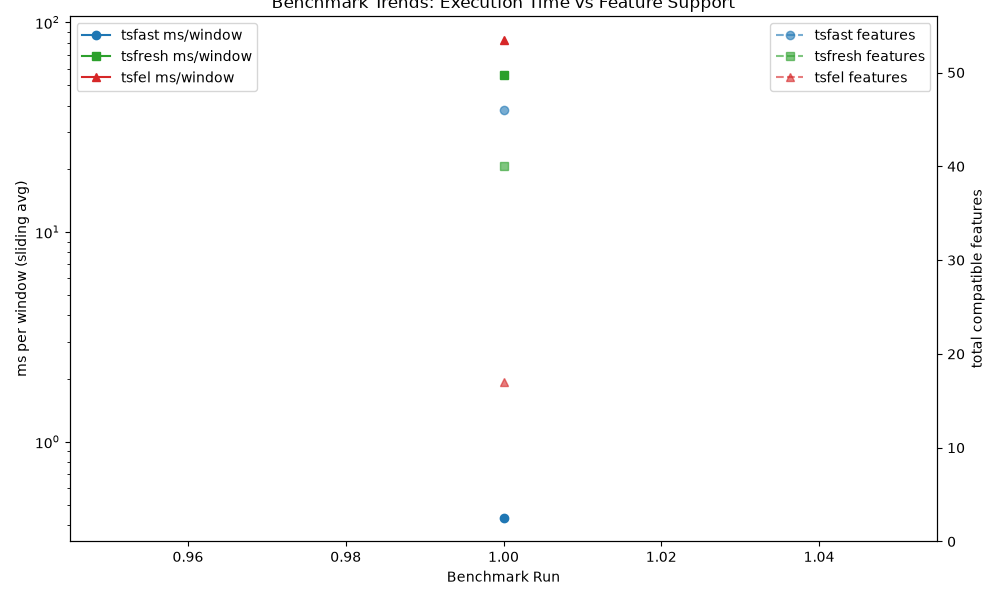
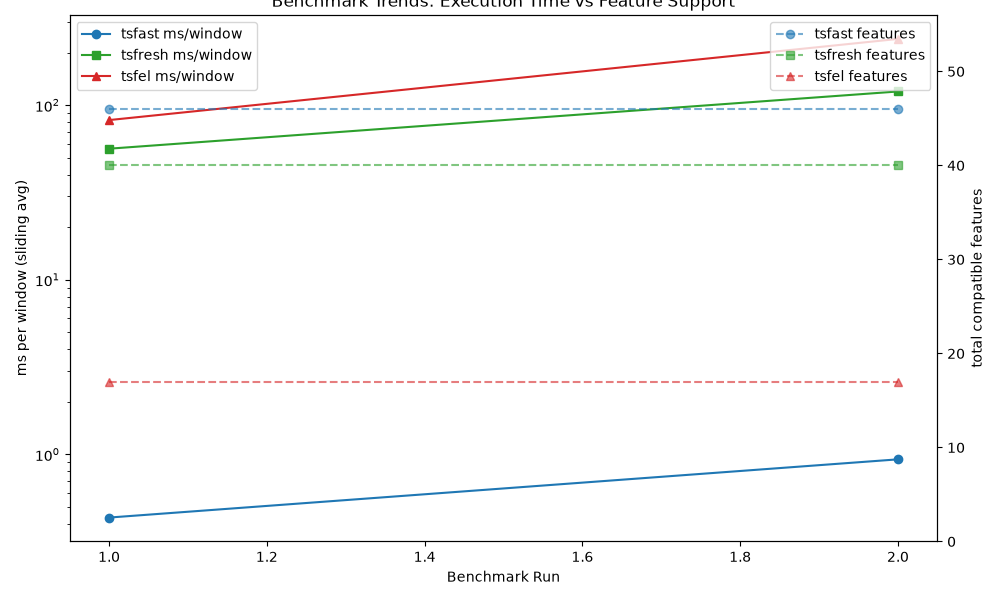
⚡ Bolt: Reuse fft buffer in expanding engine (#35)

diff --git a/src/expanding/engine.rs b/src/expanding/engine.rs
@@ -436,17 +436,33 @@ impl<'a> ExpandingEngine<'a> {
                         &mut state.fft_out_buffer[..complex_len],
                     )
                     .unwrap();
+                    spectrum = state.fft_out_buffer[..complex_len]
+                        .iter()
+                        .map(|c| c.norm())
+                        .collect();
                     fft_complex = state.fft_out_buffer[..complex_len].to_vec();
-                    spectrum = fft_complex.iter().map(|c| c.norm()).collect();
                 } else if self.compute.any([54, 55, 56, 57, 60, 64]) {
                     use realfft::RealFftPlanner;
                     let mut planner = RealFftPlanner::<f32>::new();
                     let r2c = planner.plan_fft_forward(n_total);
-                    let mut indata = full_series.to_vec();
-                    let mut outdata = r2c.make_output_vec();
-                    r2c.process(&mut indata, &mut outdata).unwrap();
-                    fft_complex = outdata;
-                    spectrum = fft_complex.iter().map(|c| c.norm()).collect();
+                    let complex_len = r2c.complex_len();
+                    state.fft_in_buffer.clear();
+                    state.fft_in_buffer.extend_from_slice(full_series);
+                    if state.fft_out_buffer.len() < complex_len {
+                        state
+                            .fft_out_buffer
+                            .resize(complex_len, num_complex::Complex::new(0.0, 0.0));
+                    }
+                    r2c.process(
+                        &mut state.fft_in_buffer,
+                        &mut state.fft_out_buffer[..complex_len],
+                    )
+                    .unwrap();
+                    spectrum = state.fft_out_buffer[..complex_len]
+                        .iter()
+                        .map(|c| c.norm())
+                        .collect();
+                    fft_complex = state.fft_out_buffer[..spectrum.len()].to_vec();
                 }
                 // Cache it
                 state.last_fft_n = n_total;

diff --git a/src/types.rs b/src/types.rs
@@ -602,11 +602,19 @@ impl Feature {
             Feature::SpectralDecrease => "spectral_decrease".to_string(),
             Feature::SpectralSlope => "spectral_slope".to_string(),
             Feature::SignalDistance => "signal_distance".to_string(),
-            Feature::WaveletFeatures(w_bits, f) => format!("wavelet-{}-{}", f32::from_bits(*w_bits), f),
-            Feature::SpectrogramCoefficients(t, f_bits) => format!("spectrogram-{}-{}", t, f32::from_bits(*f_bits)),
+            Feature::WaveletFeatures(w_bits, f) => {
+                format!("wavelet-{}-{}", f32::from_bits(*w_bits), f)
+            }
+            Feature::SpectrogramCoefficients(t, f_bits) => {
+                format!("spectrogram-{}-{}", t, f32::from_bits(*f_bits))
+            }
             Feature::MeanSecondDerivativeCentral => "mean_second_derivative_central".to_string(),
-            Feature::LargeStandardDeviation(r_bits) => format!("large_standard_deviation-{}", f32::from_bits(*r_bits)),
-            Feature::SymmetryLooking(r_bits) => format!("symmetry_looking-{}", f32::from_bits(*r_bits)),
+            Feature::LargeStandardDeviation(r_bits) => {
+                format!("large_standard_deviation-{}", f32::from_bits(*r_bits))
+            }
+            Feature::SymmetryLooking(r_bits) => {
+                format!("symmetry_looking-{}", f32::from_bits(*r_bits))
+            }
             Feature::HasDuplicateMax => "has_duplicate_max".to_string(),
             Feature::HasDuplicateMin => "has_duplicate_min".to_string(),
             Feature::HasDuplicate => "has_duplicate".to_string(),

diff --git a/src/sliding/engine.rs b/src/sliding/engine.rs
@@ -1001,7 +1001,9 @@ impl<'a> SlidingEngine<'a> {
                             .1;
                         let m2 = *copy[..mid]
                             .iter()
-                            .max_by(|a: &&f32, b: &&f32| a.partial_cmp(b).unwrap_or(std::cmp::Ordering::Equal))
+                            .max_by(|a: &&f32, b: &&f32| {
+                                a.partial_cmp(b).unwrap_or(std::cmp::Ordering::Equal)
+                            })
                             .unwrap();
                         median = (m1 + m2) / 2.0;
                     }
@@ -1215,7 +1217,7 @@ impl<'a> SlidingEngine<'a> {
                 Feature::Quantile(q_bits) => {
                     let q = f32::from_bits(*q_bits);
                     // ⚡ Bolt Optimization: Reuse sort_buffer to prevent inner loop memory allocations
-                let mut copy: Vec<f32> = std::mem::take(&mut state.sort_buffer);
+                    let mut copy: Vec<f32> = std::mem::take(&mut state.sort_buffer);
                     copy.clear();
                     copy.extend_from_slice(values);
                     let res = if copy.is_empty() {

diff --git a/src/static_ext/extractor.rs b/src/static_ext/extractor.rs
@@ -425,7 +425,8 @@ impl<'a> StaticEngine<'a> {
                     outdata.resize(out_len, realfft::num_complex::Complex::new(0.0, 0.0));
                 }
 
-                r2c.process(&mut indata[..values.len()], &mut outdata[..out_len]).unwrap();
+                r2c.process(&mut indata[..values.len()], &mut outdata[..out_len])
+                    .unwrap();
                 let s = outdata[..out_len].iter().map(|c| c.norm()).collect();
                 (outdata[..out_len].to_vec(), s)
             } else {

diff --git a/README.md b/README.md
@@ -17,22 +17,22 @@ TSFast is a high-performance time-series feature extraction library written in R
 ## Latest Results
 | Date                | CommitHash   | Benchmark_Name                       |   Metric_Value | Unit   |   Delta_From_Last |
 |:--------------------|:-------------|:-------------------------------------|---------------:|:-------|------------------:|
-| 2026-10-02 14:43:55 | dc89d37      | tsfast_sliding_first_window          |       1.58691  | ms     |                 0 |
-| 2026-10-02 14:43:55 | dc89d37      | tsfast_sliding_avg_next_50           |       0.434408 | ms     |                 0 |
-| 2026-10-02 14:43:55 | dc89d37      | tsfast_expanding_first_window        |       0.333309 | ms     |                 0 |
-| 2026-10-02 14:43:55 | dc89d37      | tsfast_expanding_avg_next_50         |       1.84072  | ms     |                 0 |
-| 2026-10-02 14:43:55 | dc89d37      | tsfast_static_sliding_first_window   |       0.328541 | ms     |                 0 |
-| 2026-10-02 14:43:55 | dc89d37      | tsfast_static_sliding_avg_next_50    |       0.44282  | ms     |                 0 |
-| 2026-10-02 14:43:55 | dc89d37      | tsfast_static_expanding_first_window |       0.397682 | ms     |                 0 |
-| 2026-10-02 14:43:55 | dc89d37      | tsfast_static_expanding_avg_next_50  |       2.06037  | ms     |                 0 |
-| 2026-10-02 14:43:55 | dc89d37      | tsfresh_sliding_first_window         |      62.5169   | ms     |                 0 |
-| 2026-10-02 14:43:55 | dc89d37      | tsfresh_sliding_avg_next_50          |      56.3064   | ms     |                 0 |
-| 2026-10-02 14:43:55 | dc89d37      | tsfresh_expanding_first_window       |      55.4194   | ms     |                 0 |
-| 2026-10-02 14:43:55 | dc89d37      | tsfresh_expanding_avg_next_50        |     274.549    | ms     |                 0 |
-| 2026-10-02 14:43:55 | dc89d37      | tsfel_sliding_first_window           |      84.6529   | ms     |                 0 |
-| 2026-10-02 14:43:55 | dc89d37      | tsfel_sliding_avg_next_50            |      82.126    | ms     |                 0 |
-| 2026-10-02 14:43:55 | dc89d37      | tsfel_expanding_first_window         |      81.9786   | ms     |                 0 |
-| 2026-10-02 14:43:55 | dc89d37      | tsfel_expanding_avg_next_50          |      95.0517   | ms     |                 0 |
-| 2026-10-02 14:43:55 | dc89d37      | tsfast_compatible_features           |      46        | count  |                 0 |
-| 2026-10-02 14:43:55 | dc89d37      | tsfresh_compatible_features          |      40        | count  |                 0 |
-| 2026-10-02 14:43:55 | dc89d37      | tsfel_compatible_features            |      17        | count  |                 0 |
+| 2026-10-02 17:31:39 | 998de26      | tsfast_sliding_first_window          |       3.54266  | ms     |            123.24 |
+| 2026-10-02 17:31:39 | 998de26      | tsfast_sliding_avg_next_50           |       0.93616  | ms     |            115.5  |
+| 2026-10-02 17:31:39 | 998de26      | tsfast_expanding_first_window        |       0.84877  | ms     |            154.65 |
+| 2026-10-02 17:31:39 | 998de26      | tsfast_expanding_avg_next_50         |       3.96284  | ms     |            115.29 |
+| 2026-10-02 17:31:39 | 998de26      | tsfast_static_sliding_first_window   |       0.96488  | ms     |            193.69 |
+| 2026-10-02 17:31:39 | 998de26      | tsfast_static_sliding_avg_next_50    |       0.927234 | ms     |            109.39 |
+| 2026-10-02 17:31:39 | 998de26      | tsfast_static_expanding_first_window |       0.854969 | ms     |            114.99 |
+| 2026-10-02 17:31:39 | 998de26      | tsfast_static_expanding_avg_next_50  |       3.95062  | ms     |             91.74 |
+| 2026-10-02 17:31:39 | 998de26      | tsfresh_sliding_first_window         |     127.333    | ms     |            103.68 |
+| 2026-10-02 17:31:39 | 998de26      | tsfresh_sliding_avg_next_50          |     119.739    | ms     |            112.66 |
+| 2026-10-02 17:31:39 | 998de26      | tsfresh_expanding_first_window       |     118.577    | ms     |            113.96 |
+| 2026-10-02 17:31:39 | 998de26      | tsfresh_expanding_avg_next_50        |     507.048    | ms     |             84.68 |
+| 2026-10-02 17:31:39 | 998de26      | tsfel_sliding_first_window           |     210.948    | ms     |            149.19 |
+| 2026-10-02 17:31:39 | 998de26      | tsfel_sliding_avg_next_50            |     239.465    | ms     |            191.58 |
+| 2026-10-02 17:31:39 | 998de26      | tsfel_expanding_first_window         |     212.967    | ms     |            159.78 |
+| 2026-10-02 17:31:39 | 998de26      | tsfel_expanding_avg_next_50          |     244.491    | ms     |            157.22 |
+| 2026-10-02 17:31:39 | 998de26      | tsfast_compatible_features           |      46        | count  |              0    |
+| 2026-10-02 17:31:39 | 998de26      | tsfresh_compatible_features          |      40        | count  |              0    |
+| 2026-10-02 17:31:39 | 998de26      | tsfel_compatible_features            |      17        | count  |              0    |

diff --git a/.jules/bolt.md b/.jules/bolt.md
@@ -5,3 +5,6 @@
 ## 2024-05-15 - [Performance Insight: FFT memory allocation]
 **Learning:** In the static extractor (`src/static_ext/extractor.rs`), the `r2c` processing logic created brand new `indata` and `outdata` vectors for every column processed (e.g. `vec![0.0; self.fft_size]`), causing significant overhead due to inner-loop heap allocations.
 **Action:** Reused the `fft_in_buffer` and `fft_out_buffer` available on the `ColumnState` struct via `std::mem::take`, resizing them only when necessary, processing the FFT, and then restoring them back onto the `state` struct. NOTE: It is important to avoid `.to_vec()` on the returned `outdata` because `fft_complex` actually needs to return the values to the caller without stealing `outdata`. Oh wait, `complex_data` returns `Vec<Complex<f32>>` so `.to_vec()` is still currently allocating to give a copy to `fft_complex`.
+## 2026-10-02 - Expanding Engine FFT Allocation Fix
+Learning: The expanding engine was allocating a full_series.to_vec() every column in the FFT calculation loop for realfft, as well as making duplicate allocations with to_vec on fft_complex.
+Action: Reused fft_in_buffer and fft_out_buffer for realfft processing and removed unneeded to_vec() by building the spectrum from the pre-sized output buffer, then cloning it safely at the end.
